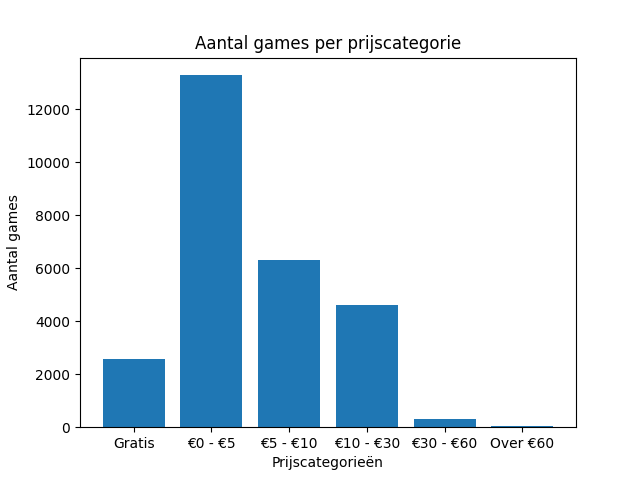
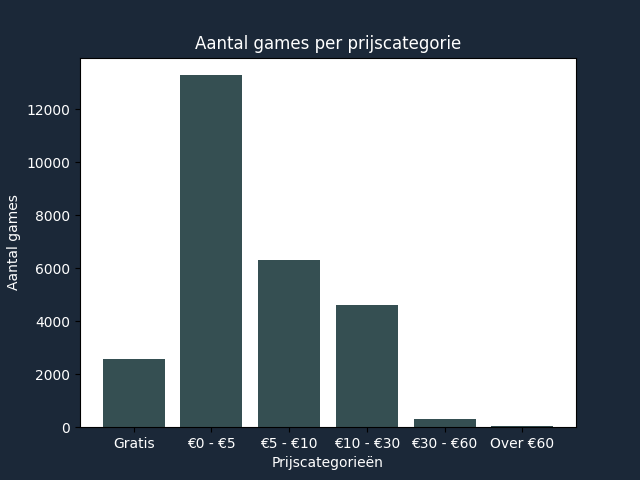
footer toegevoegd en price graph aangepast
Ik heb de footer gemaakt en toegevoegd. Hij is gestyled en responsive. Ook heb ik de styling van de pricegraph aangepast

diff --git a/templates/home.html b/templates/home.html
@@ -25,7 +25,7 @@
             </ul>
         </nav>
     </header>
-    <div id="body">
+    <main id="body">
         <h2> De eerste game </h2>
         <div>
             <p><strong>Naam:</strong> {{ eerste_game['name'] }} <br></p>
@@ -35,5 +35,34 @@
 
         <img src="static/images/graph_price.png" alt="Graph for price categories">
         <img src="static/images/graph_genre.png" alt="">
-    </div>
+    </main>
+
+    <footer>
+        <div class="container">
+            <div class="primary_links">
+                <div>
+                    <p>© 2024 Valve Corporation. All rights reserved. All trademarks are property of their respective owners in the US and other countries.
+                        VAT included in all prices where applicable.
+                    </p>
+                </div>
+                <div>
+                    <li><a href="https://store.steampowered.com/privacy_agreement" target=”_blank”>Privacy Policy</a></li>
+                    <li><a href="https://store.steampowered.com/legal" target=”_blank”>Legal</a></li>
+                    <li><a href="https://store.steampowered.com/subscriber_agreement" target=”_blank”>Steam Subscriber Agreement</a></li>
+                    <li><a href="https://store.steampowered.com/steam_refunds" target=”_blank”>Refunds</a></li>
+                    <li><a href="https://store.steampowered.com/account/cookiepreferences/" target=”_blank”>Cookies</a></li>
+                </div>
+            </div>
+            <div class="secondary_links">
+                <li><a href="https://www.valvesoftware.com/nl/about" target=”_blank”>About Valve</a></li><p> | </p>
+                <li><a href="https://www.valvesoftware.com/nl/" target=”_blank”>Jobs</a></li><p> | </p>
+                <li><a href="https://partner.steamgames.com/" target=”_blank”>Steamworks</a></li><p> | </p>
+                <li><a href="https://partner.steamgames.com/steamdirect/" target=”_blank”>Steam Distribution</a></li><p> | </p>
+                <li><a href="https://help.steampowered.com/en/" target=”_blank”>Support</a></li><p> | </p>
+                <li><a href="https://store.steampowered.com/digitalgiftcards/" target=”_blank”>Gift Cards</a></li><p> | </p>
+                <li><a href="https://www.facebook.com/Steam" target=”_blank”>Facebook</a></li><p> | </p>
+                <li><a href="https://twitter.com/steam" target=”_blank”>Twitter</a></li>
+            </div>
+        </div>
+    </footer>
 </body>

diff --git a/static/css/main.css b/static/css/main.css
@@ -87,6 +87,7 @@ label {
         position: fixed;
     }
 
+
     i {
         position: relative;
         display: block;
@@ -139,3 +140,77 @@ body{
     background-color: #1b2838;
     font-size: 10rem;
 }
+body img{
+    max-width: 100%;
+}
+
+li{
+    list-style: none;
+}
+
+#body {
+    max-width: 100vw;
+}
+
+/* Start for the footer styling */
+footer{
+    min-height: 160px;
+    background-color: #171d25;
+    display: flex;
+    justify-content: center;
+    padding: 30px 0px 30px 0px;
+}
+footer p{
+    font-size: 16px;
+}
+
+footer .container{
+    max-width: 80%;
+}
+
+.primary_links, .secondary_links{
+    display: flex;
+    flex-direction: row;
+    justify-content: space-evenly;
+    align-items: center;
+    flex-wrap: wrap;
+    padding: 30px 0px 30px 0px;
+}
+
+.primary_links{
+    flex-direction: column;
+    border-top: 1px solid #8F98A0;
+    border-bottom: 1px solid #8F98A0;
+    padding: 20px;
+}
+.primary_links div{
+    display: flex;
+    flex-direction: row;
+}
+.primary_links li{
+    padding: 0px 20px 0px 20px;
+}
+.primary_links div:nth-child(2) {
+    display: flex;
+    flex-wrap: wrap;
+}
+
+
+.secondary_links li{
+    padding: 10px;
+    display: flex;
+    flex-wrap: wrap;
+    color: #8F98A0;
+}
+
+footer a {
+    text-decoration: none;
+    font-size: 16px;
+    color: #c7d5e0;
+    transition: color 0.3s ease;
+}
+
+footer a:hover {
+    color: #ffffff;
+}
+/* End for the footer styling */

diff --git a/Statistiekalgoritmen/algoritmen.py b/Statistiekalgoritmen/algoritmen.py
@@ -134,12 +134,18 @@ def kwantitatief_frequentie_prijs():
         "\u20AC30 - \u20AC60": between_30_and_60,
         "Over \u20AC60": over_60
     }
+
+    fig = plt.figure(figsize=(10, 10))
+    plt.figure(facecolor='#1b2838')
+
     x = np.array(list(prijsfrequentie.keys()))
     y = np.array(list(prijsfrequentie.values()))
-    plt.bar(x, y)
-    plt.title("Aantal games per prijscategorie")
-    plt.xlabel("Prijscategorieën")
-    plt.ylabel("Aantal games")
+    plt.bar(x, y, color='#354f52')
+    plt.yticks(color="white")
+    plt.xticks(color="white")
+    plt.title("Aantal games per prijscategorie", color='white')
+    plt.xlabel("Prijscategorieën", color='white')
+    plt.ylabel("Aantal games", color='white')
 
     graph_filename = 'static\images\graph_price.png'
     plt.savefig(graph_filename)
